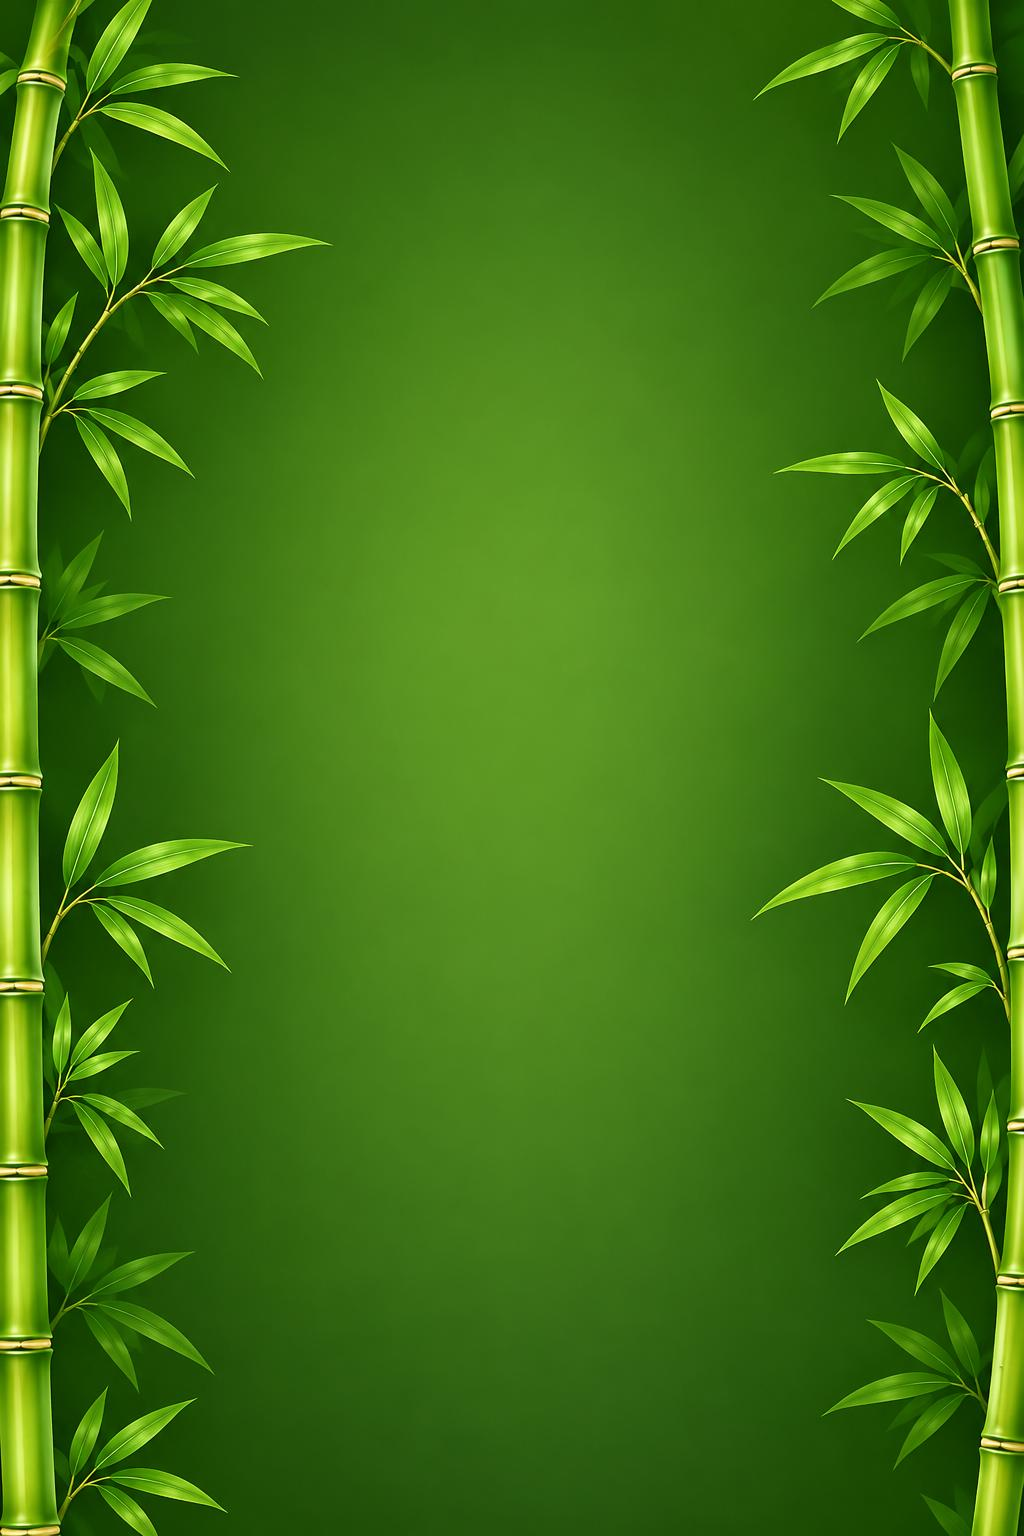
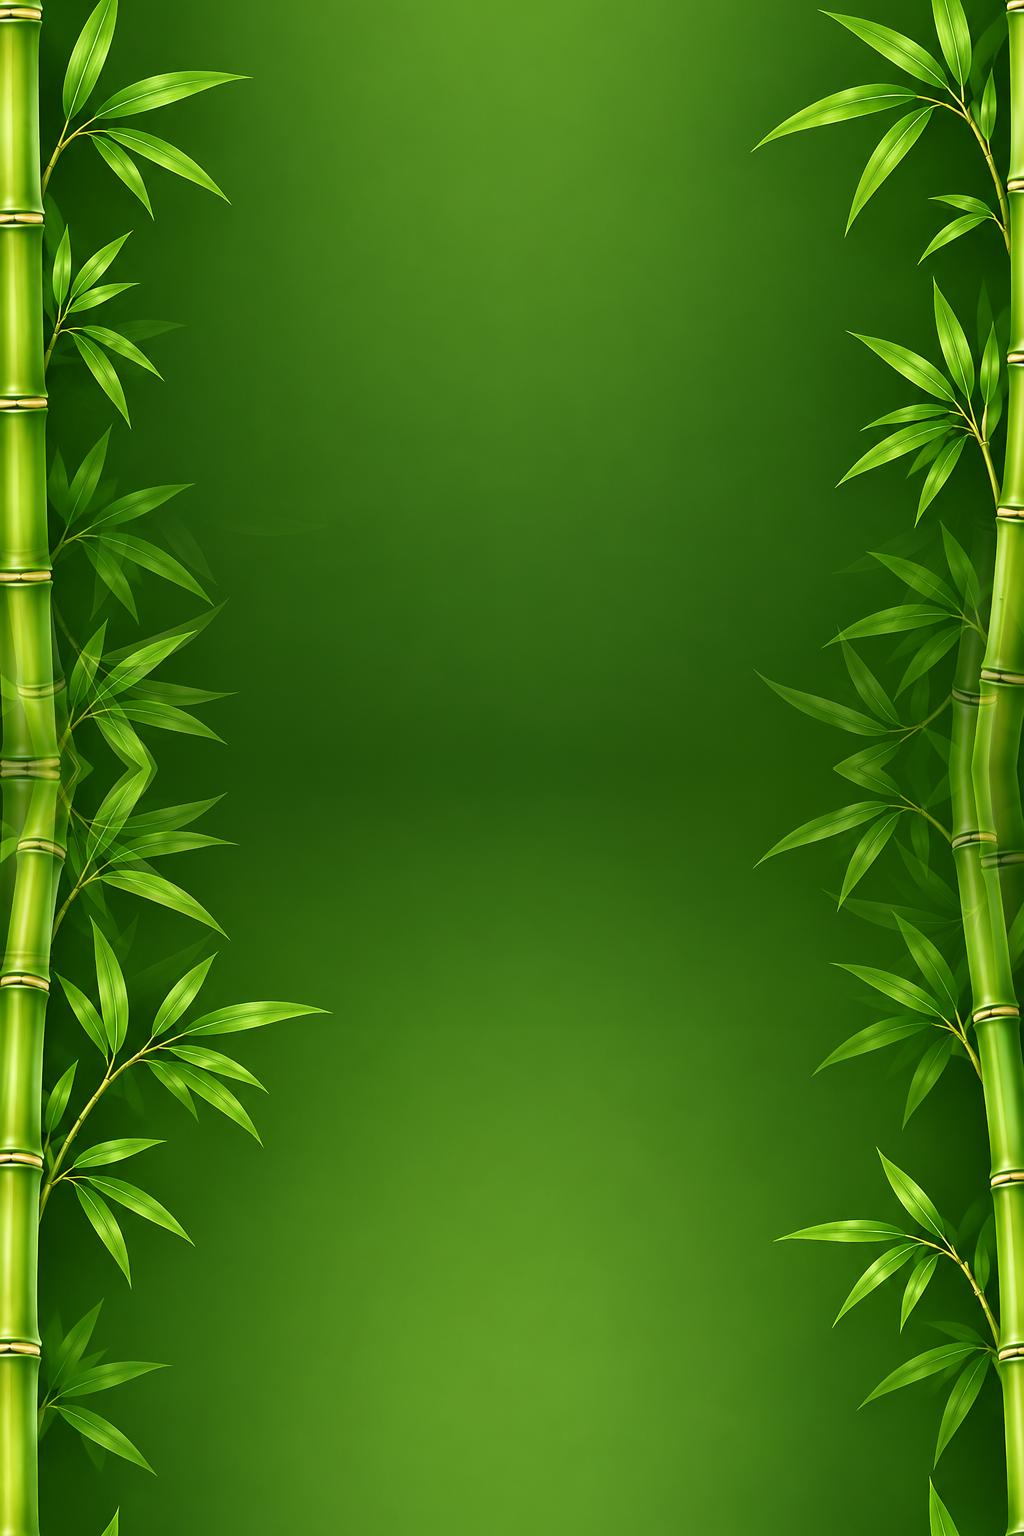
Make the hero bamboo wallpaper tile actually seamless
The repeating hero background was a straight vertical crop of the
client's bamboo reference photo, so the leaf clusters and stalk nodes
at the top edge didn't line up with the bottom edge -- every repeat
cut visibly from one leaf arrangement to an unrelated one. A 14px gold
bar was layered on top of each seam to hide the jump, which mostly
worked but still read as a hard, out-of-place stripe cutting across
the wallpaper, especially now that the CTA/quote/photo blocks were
tightened up on mobile and the seam falls in more visible spots.

Regenerated the tile from the original source: rolled it vertically by
half its height (so the old hard seam moves to the center, and the new
top/bottom edges become two originally-adjacent rows that already
connect), then feathered a ~260px band around that center seam by
blending each row with its mirror across the seam line. The tile now
repeats with no visible cut, so the gold masking bar is no longer
needed and has been removed from the background-image stack.

diff --git a/assets/css/style.css b/assets/css/style.css
@@ -789,23 +789,18 @@ section { padding: var(--space-4xl) 0; position: relative; overflow: hidden; }
 @media (prefers-reduced-motion: reduce) { .bamboo-deco { animation: none; } }
 
 /* — Homepage hero wallpaper: the client's own reference bamboo image, tiled
-   the full height of the hero so it never runs out. A gold bar is drawn as
-   a second background layer at the exact same tile size (kept in sync with
-   --bamboo-tile-h, set in main.js) so it lands precisely on each repeat
-   seam instead of leaving a visible hard cut. — */
+   the full height of the hero so it never runs out. The tile itself is
+   pre-blended (offset + feathered) so the repeat seam is invisible without
+   needing a bar to mask it. — */
 .hero--default.hero--tall {
-  background-image:
-    linear-gradient(to bottom, transparent calc(100% - 14px), var(--mango) calc(100% - 14px), var(--mango) 100%),
-    url('../img/bamboo/bamboo-wallpaper-edge.jpg');
-  background-repeat: repeat-y, repeat-y;
-  background-position: top center, top center;
-  background-size: 100% var(--bamboo-tile-h, 800px), 100% var(--bamboo-tile-h, 800px);
+  background-image: url('../img/bamboo/bamboo-wallpaper-edge.jpg');
+  background-repeat: repeat-y;
+  background-position: top center;
+  background-size: 100% var(--bamboo-tile-h, 800px);
 }
 @supports (background-image: image-set(url('a.jpg') type('image/jpeg'))) {
   .hero--default.hero--tall {
-    background-image:
-      linear-gradient(to bottom, transparent calc(100% - 14px), var(--mango) calc(100% - 14px), var(--mango) 100%),
-      image-set(url('../img/bamboo/bamboo-wallpaper-edge.webp') type('image/webp'), url('../img/bamboo/bamboo-wallpaper-edge.jpg') type('image/jpeg'));
+    background-image: image-set(url('../img/bamboo/bamboo-wallpaper-edge.webp') type('image/webp'), url('../img/bamboo/bamboo-wallpaper-edge.jpg') type('image/jpeg'));
   }
 }
 
